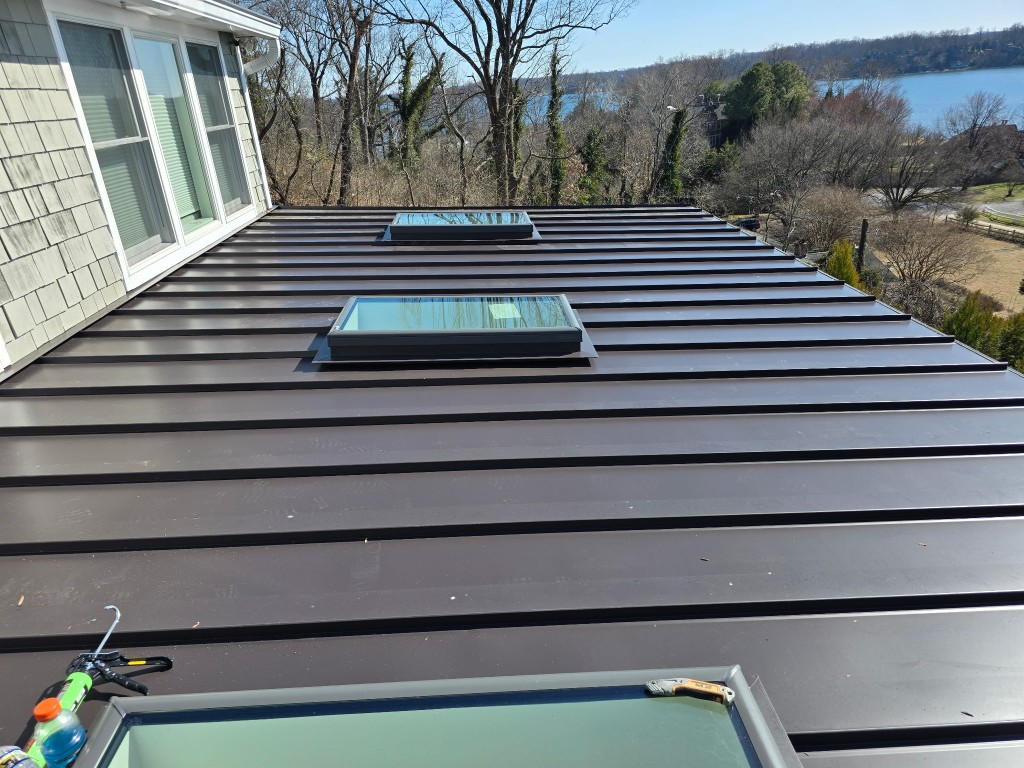
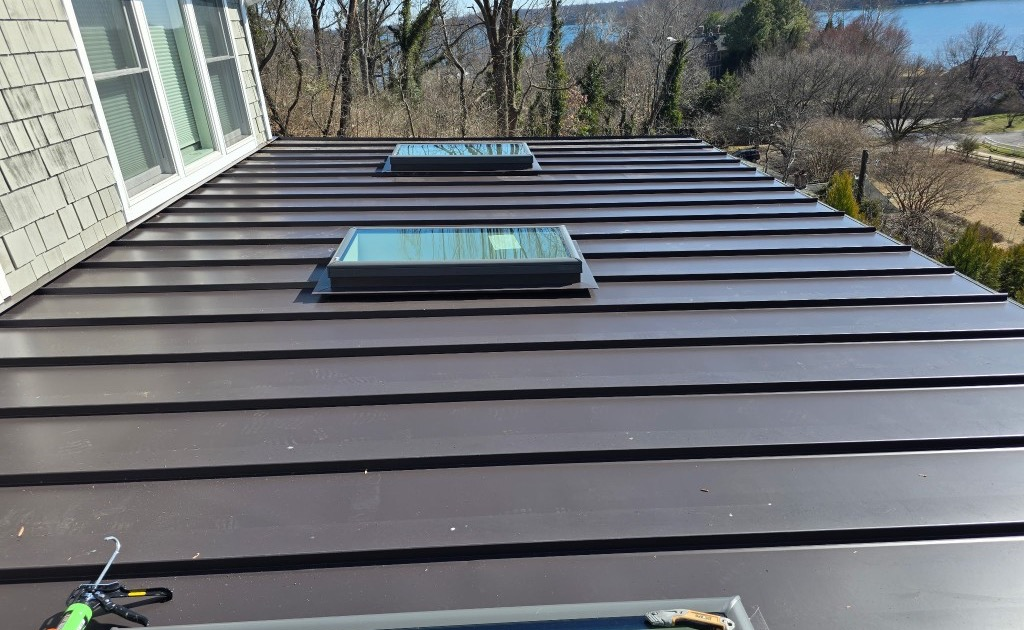
added new images to the site and changed some image labels

diff --git a/src/content.config.ts b/src/content.config.ts
@@ -32,6 +32,7 @@ const projects = defineCollection({
       category: z.enum(["Roofing", "Siding", "Windows", "Skylights", "Crew at Work"]),
       photo: image(),
       aspect: z.enum(["portrait", "landscape", "square"]).default("landscape"),
+      focalPoint: z.string().default("center"),
       featured: z.boolean().default(false),
       order: z.number().default(0),
     }),

diff --git a/src/content/projects/04-ranch-tear-off.md b/src/content/projects/04-ranch-tear-off.md
@@ -1,9 +1,10 @@
 ---
-title: Same-Day Ranch Roof Tear-Off
-caption: Eight-man crew completing a full architectural shingle install in a single day.
-category: Crew at Work
-photo: ../../assets/photos/jandhong-crew-roof-ranch.png
-aspect: landscape
+title: Siding Installation in Progress
+caption: Crew applying weather-resistant barrier before James Hardie siding. Full exterior re-clad on a two-story home.
+category: Siding
+photo: ../../assets/photos/jandhong-crew-siding-install.png
+aspect: portrait
+focalPoint: 35% center
 featured: false
-order: 4
+order: 5
 ---

diff --git a/src/content/services/skylights.md b/src/content/services/skylights.md
@@ -4,7 +4,7 @@ slug: skylights
 eyebrow: Service 04
 icon: skylight
 order: 4
-photo: ../../assets/photos/jandhong-metal-roof-skylights.png
+photo: ../../assets/photos/jandhong-crew-roof-ranch.png
 summary: Properly flashed skylights bring daylight in and keep weather out for decades. We install VELUX and similar units integrated into either asphalt or standing-seam roofs with the right step-flashing kit every time.
 highlights:
   - Fixed, vented, and solar-vented skylights

diff --git a/src/content/services/gutters.md b/src/content/services/gutters.md
@@ -4,7 +4,7 @@ slug: gutters
 eyebrow: Service 03
 icon: gutter
 order: 3
-photo: ../../assets/photos/jandhong-metal-roof-skylights.png
+photo: ../../assets/photos/jandhong-brick-colonial-metal-roof.png
 summary: Water doesn't forgive bad flashing. We fabricate seamless aluminum gutters on-site, integrate them properly with your roof system, and use step- and counter-flashing that actually keeps water out.
 highlights:
   - Seamless aluminum gutters (5" & 6")

diff --git a/src/content/services/siding.md b/src/content/services/siding.md
@@ -4,7 +4,7 @@ slug: siding
 eyebrow: Service 02
 icon: siding
 order: 2
-photo: ../../assets/photos/jandhong-hero-house.png
+photo: ../../assets/photos/jandhong-board-batten-metal-roof.png
 summary: "Cedar shake, fiber cement, and premium vinyl siding installed with the same care we give our own homes. We pay attention to the trim, flashing, and seams: the details that decide how a house ages."
 highlights:
   - Cedar & composite shake

diff --git a/src/content/projects/02-standing-seam-skylights.md b/src/content/projects/02-standing-seam-skylights.md
@@ -2,8 +2,9 @@
 title: Standing-Seam Metal Roof with Skylights
 caption: Dark-bronze standing-seam metal with two VELUX skylights. Severn River waterfront home.
 category: Skylights
-photo: ../../assets/photos/jandhong-metal-roof-skylights.png
+photo: ../../assets/photos/jandhong-crew-roof-ranch.png
 aspect: landscape
+focalPoint: center 45%
 featured: true
-order: 2
+order: 4
 ---

diff --git a/src/content/projects/08-brick-colonial-metal-roof.md b/src/content/projects/08-brick-colonial-metal-roof.md
@@ -1,0 +1,10 @@
+---
+title: Brick Colonial — Standing-Seam Metal Roof
+caption: Full standing-seam metal roof replacement on a classic brick colonial. Black-trimmed windows and shutters throughout.
+category: Roofing
+photo: ../../assets/photos/jandhong-brick-colonial-metal-roof.png
+aspect: square
+focalPoint: 45% center
+featured: false
+order: 2
+---

diff --git a/src/content/projects/06-white-farmhouse-metal-roof.md b/src/content/projects/06-white-farmhouse-metal-roof.md
@@ -1,0 +1,10 @@
+---
+title: White Farmhouse — Metal Roof & Hardie Siding
+caption: Standing-seam metal roof, Hardie lap siding, and black-trimmed windows on a new farmhouse build.
+category: Siding
+photo: ../../assets/photos/jandhong-white-farmhouse-porch.png
+aspect: landscape
+focalPoint: center 20%
+featured: true
+order: 1
+---

diff --git a/src/content/projects/07-board-batten-metal-roof.md b/src/content/projects/07-board-batten-metal-roof.md
@@ -1,0 +1,10 @@
+---
+title: Commercial Building — Board & Batten with Metal Roof
+caption: Standing-seam metal roof and full board-and-batten re-side on a commercial property.
+category: Siding
+photo: ../../assets/photos/jandhong-board-batten-metal-roof.png
+aspect: square
+focalPoint: center
+featured: false
+order: 3
+---

diff --git a/src/content/projects/03-painted-brick-windows.md b/src/content/projects/03-painted-brick-windows.md
@@ -3,7 +3,8 @@ title: Painted Brick Cottage Window Replacement
 caption: Black-clad picture and double-hung windows on a freshly-painted white brick cottage.
 category: Windows
 photo: ../../assets/photos/jandhong-windows-trim.png
-aspect: landscape
+aspect: square
+focalPoint: center
 featured: true
-order: 3
+order: 6
 ---

diff --git a/src/content/projects/05-cape-roof-replacement.md b/src/content/projects/05-cape-roof-replacement.md
@@ -3,7 +3,8 @@ title: Cape Cod Roof Replacement
 caption: New architectural asphalt roof on a classic Maryland Cape, finished before the weather turned.
 category: Roofing
 photo: ../../assets/photos/jandhong-crew-roof-cape.png
-aspect: landscape
+aspect: square
+focalPoint: center
 featured: false
-order: 5
+order: 8
 ---

diff --git a/src/content/projects/01-shingle-cape.md b/src/content/projects/01-shingle-cape.md
@@ -4,6 +4,7 @@ caption: "Full exterior: shingle siding, architectural asphalt roof, custom trim
 category: Roofing
 photo: ../../assets/photos/jandhong-hero-house.png
 aspect: landscape
+focalPoint: center
 featured: true
-order: 1
+order: 7
 ---
